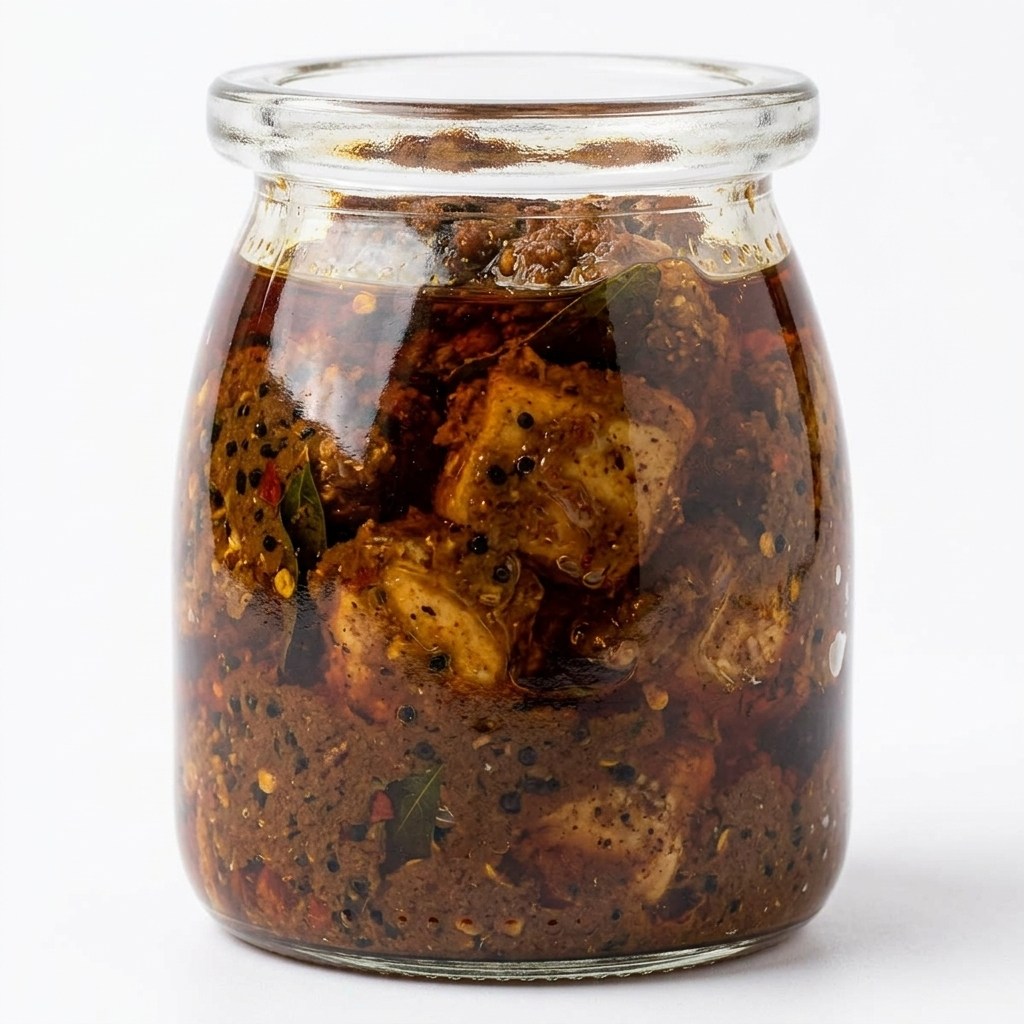
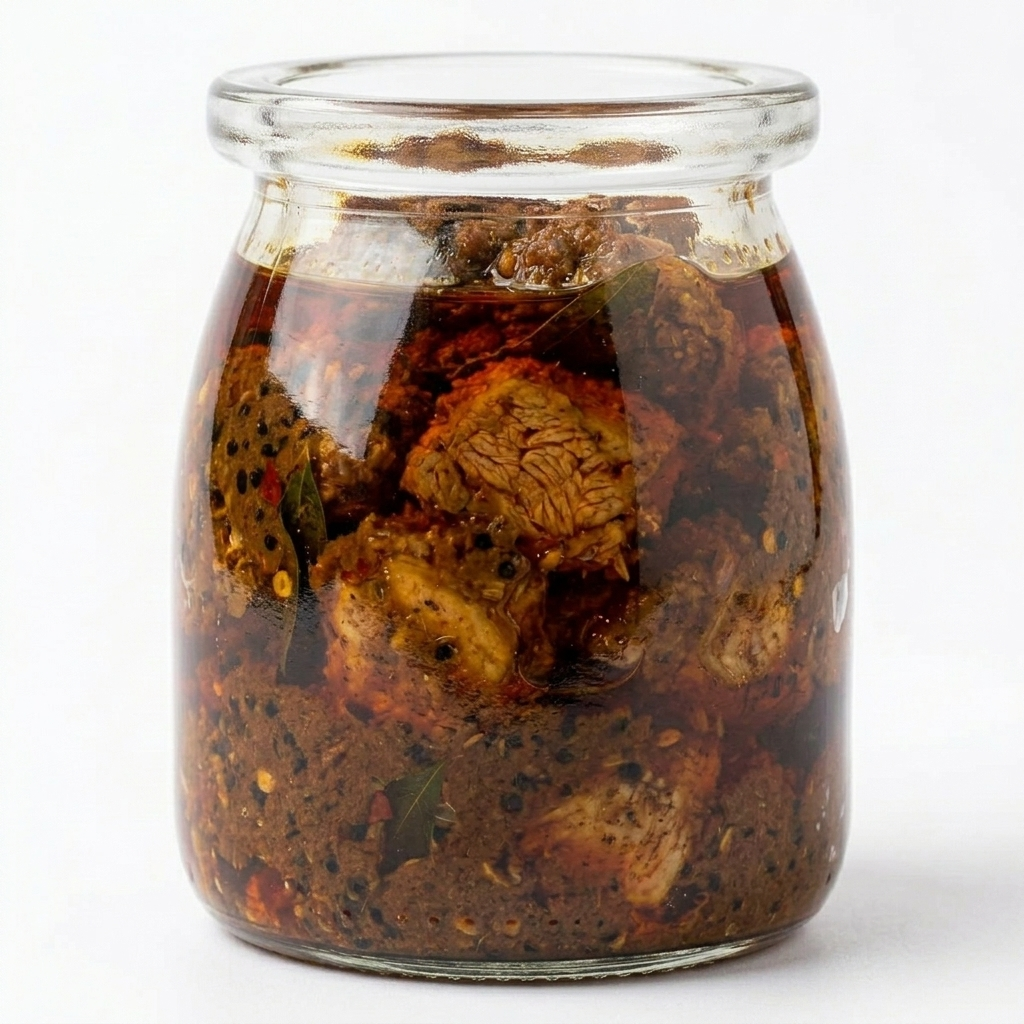
Update chicken boneless image and create separate fish boneless image

diff --git a/index.html b/index.html
@@ -1214,7 +1214,7 @@
           <div class="product-card reveal" data-category="nonveg" data-base-price="1600">
             <div class="product-img-box">
               <span class="product-badge-nv">Non-Veg</span>
-              <img src="assets/fish-jar.png" alt="Fish Boneless Pickle" loading="lazy">
+              <img src="assets/fishboneless-jar.png" alt="Fish Boneless Pickle" loading="lazy">
             </div>
             <div class="product-card-body">
               <h3 data-i18n="prod_fish_boneless">Fish Boneless</h3>